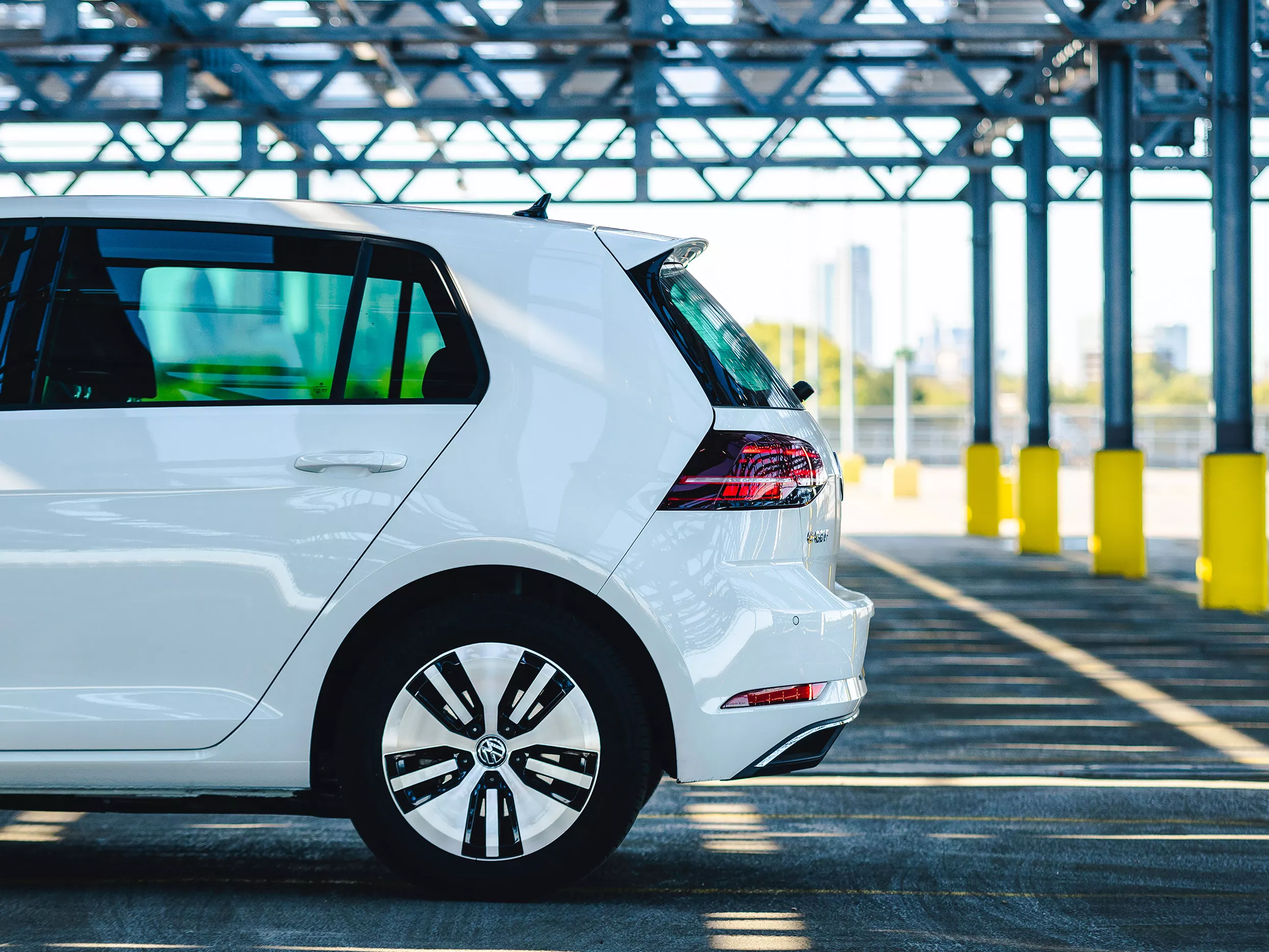
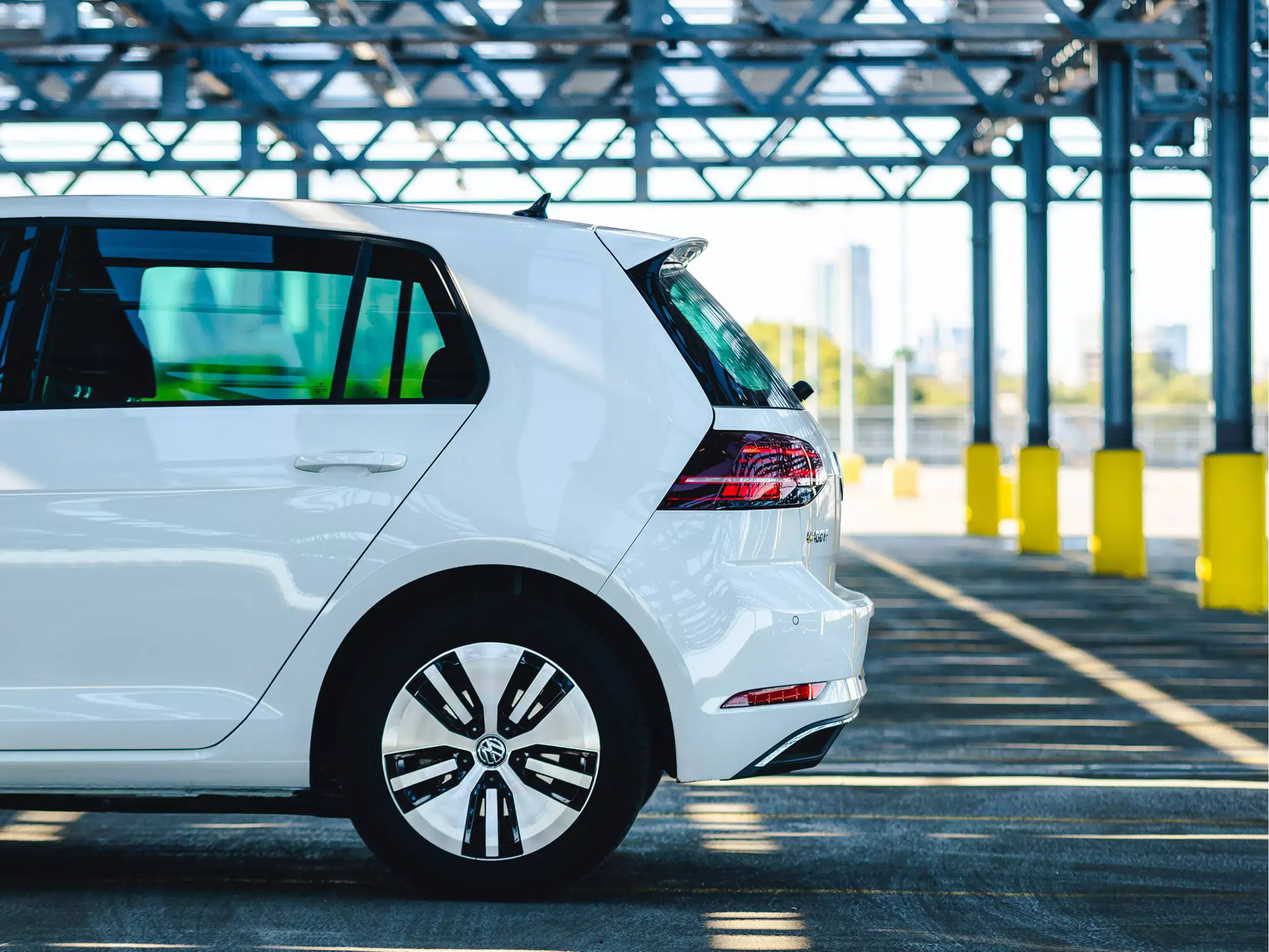
Optimise images

diff --git a/index.html b/index.html
@@ -141,8 +141,8 @@
           </a>
         </div>
         <div class="col-md-6 col-lg-4 mb-4 gallery-img-container" data-category="interior" data-aos="zoom-in-up">
-          <a href="assets/img/gallery-img-6.jpg" target="_blank">
-            <img class="img-fluid" src="assets/img/gallery-img-6.jpg" alt="detail view of e-golf dashboard and steering wheel">
+          <a href="assets/img/gallery-img-6.webp" target="_blank">
+            <img class="img-fluid" src="assets/img/gallery-img-6.webp" alt="detail view of e-golf dashboard and steering wheel">
           </a>
         </div>
       </div>
@@ -201,7 +201,7 @@
       <p>At Premium Volkswagen we have a wide range of Volkswagen vehicles for sale. If you like the e-Golf, you may also be interested in these  similar vehicles.</p>
       <ul class="list-unstyled">
         <li class="media d-block d-sm-flex my-5">
-          <img src="assets/img/vw-id-3.png" class="d-block mx-auto ml-sm-0 mr-sm-3 align-self-center" alt="volkswagen id 3">
+          <img src="assets/img/vw-id-3.webp" class="d-block mx-auto ml-sm-0 mr-sm-3 align-self-center" alt="volkswagen id 3">
           <div class="media-body">
             <h5 class="mt-0 mb-1">Volkswagen ID.3</h5>
             <p class="mb-2">Cras sit amet nibh libero, in gravida nulla. Nulla vel metus scelerisque ante sollicitudin. Cras purus odio, vestibulum in vulputate at, tempus viverra turpis. Fusce condimentum nunc ac nisi vulputate fringilla. Donec lacinia congue felis in faucibus.</p>
@@ -209,7 +209,7 @@
           </div>
         </li>
         <li class="media d-block d-sm-flex my-5">
-          <img src="assets/img/vw-golf-8.png" class="d-block mx-auto ml-sm-0 mr-sm-3 align-self-center" alt="volkswagen golf 8">
+          <img src="assets/img/vw-golf-8.webp" class="d-block mx-auto ml-sm-0 mr-sm-3 align-self-center" alt="volkswagen golf 8">
           <div class="media-body">
             <h5 class="mt-0 mb-1">Volkswagen Golf 8</h5>
             <p class="mb-2">Lorem ipsum dolor sit amet consectetur adipisicing elit. Culpa quidem, earum voluptate, aliquid ab id soluta suscipit animi saepe beatae doloribus rem hic in veritatis laborum debitis incidunt dolorem omnis repellat autem nihil totam minus cupiditate.</p>

diff --git a/css/styles.css b/css/styles.css
@@ -83,7 +83,7 @@ main a:not(#back-to-top-btn) {
   -webkit-box-flex: 1;
       -ms-flex: 1 0 100vh;
           flex: 1 0 100vh;
-  background-image: url("/assets/img/e-golf-hero.jpg");
+  background-image: url("/assets/img/e-golf-hero.webp");
   background-size: cover;
   background-attachment: fixed;
   background-position: center;

diff --git a/scss/styles.scss b/scss/styles.scss
@@ -80,7 +80,7 @@ main a:not(#back-to-top-btn) {
 
 #hero-container {
   flex: 1 0 100vh;
-  background-image: url('/assets/img/e-golf-hero.jpg');
+  background-image: url('/assets/img/e-golf-hero.webp');
   background-size: cover;
   background-attachment: fixed;
   background-position: center;
